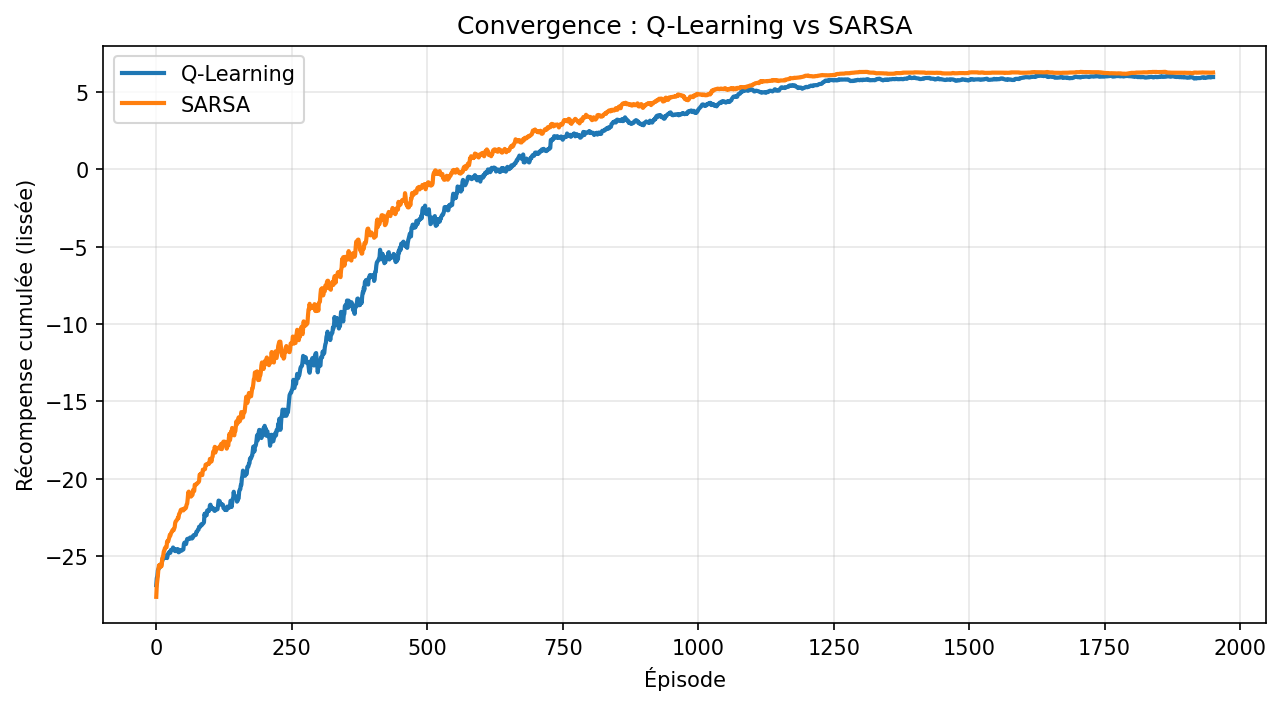
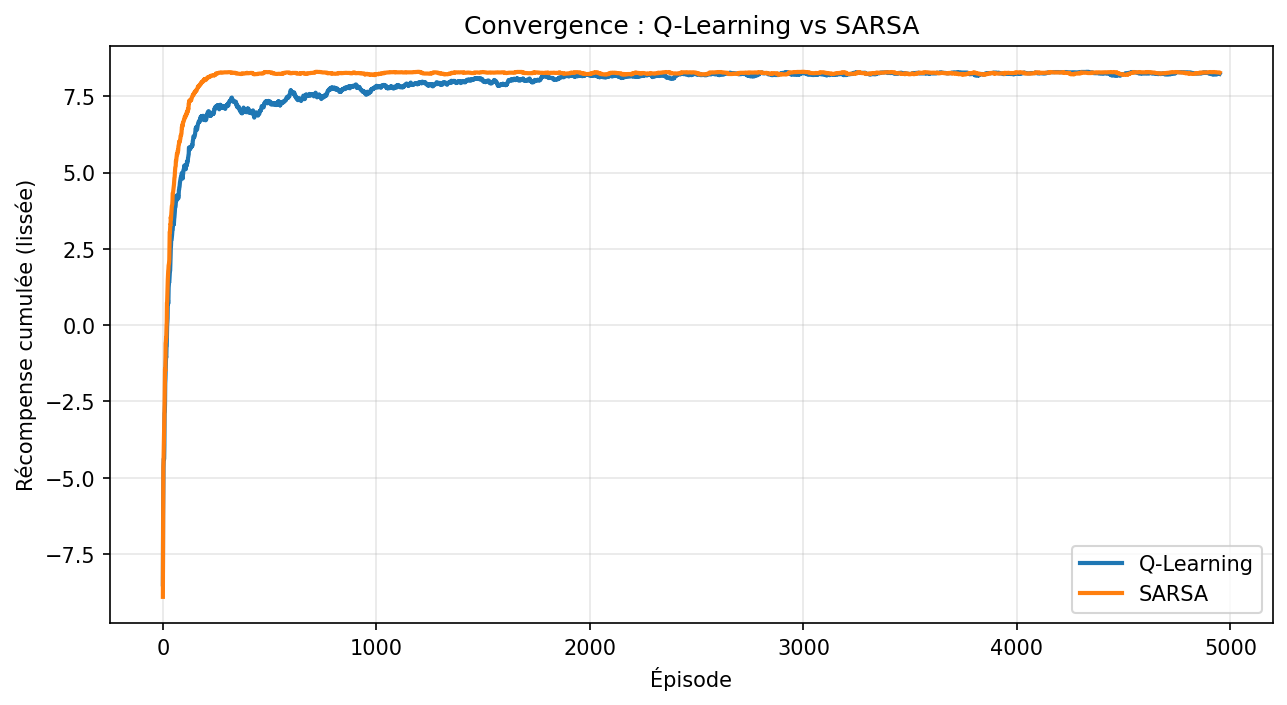
grille 20×20 avec 5000 épisodes

diff --git a/main.py b/main.py
@@ -8,13 +8,13 @@ def smooth(x, w=50):
     return np.convolve(x, np.ones(w)/w, mode='valid')
 
 if __name__ == "__main__":
-    env = GridWorld(size=20)
+    env = GridWorld(size=10)
     
     print("Entraînement Q-Learning...")
-    agent_ql, r_ql = train_qlearning(env, n_episodes=2000)
+    agent_ql, r_ql = train_qlearning(env, n_episodes=5000)
     
     print("Entraînement SARSA...")
-    agent_sa, r_sa = train_sarsa(env, n_episodes=2000)
+    agent_sa, r_sa = train_sarsa(env, n_episodes=5000)
     plt.figure(figsize=(10, 5))
     plt.plot(smooth(r_ql), label="Q-Learning", lw=2)
     plt.plot(smooth(r_sa), label="SARSA", lw=2)

diff --git a/env.py b/env.py
@@ -7,9 +7,9 @@ class GridWorld:
         self.n_states = size * size
         self.start = (0, 0)
         self.goal = (size - 1, size - 1)
-        self.obstacles = {(2,2),(2,3),(3,2),(5,6),(6,5),(6,6),
-                          (4,4), (6,3), (3,6), (12,2), (10,10), 
-                          (3,16), (16,16), (16,18), (18,19)
+        self.obstacles = {(2,2),(2,3),(3,2),(5,6),
+                          (6,5),(6,6),(4,4), 
+                          (6,3), (3,6), (5,5)
                           }
         self.actions = [(-1,0), (1,0),  (0,-1), (0,1)]
         #               haut    bas    gauche  droite

diff --git a/train.py b/train.py
@@ -3,7 +3,7 @@ from tqdm import tqdm
 from agents import QLearning, SARSA
 from env import GridWorld
 
-def train_qlearning(env,n_episodes=2000,max_steps=200):
+def train_qlearning(env,n_episodes=5000,max_steps=500):
     agent = QLearning(env.n_states,env.n_actions,epsilon=0.3)
     rewards = []
 
@@ -27,7 +27,7 @@ def train_qlearning(env,n_episodes=2000,max_steps=200):
     return agent, rewards
 
 
-def train_sarsa(env,n_episodes=2000,max_steps=200):
+def train_sarsa(env,n_episodes=5000,max_steps=500):
     agent = SARSA(env.n_states,env.n_actions,epsilon=0.3)
     rewards = []
 
